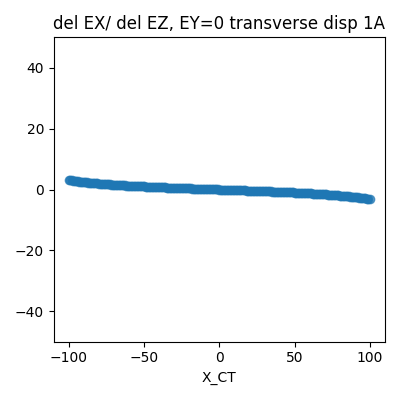
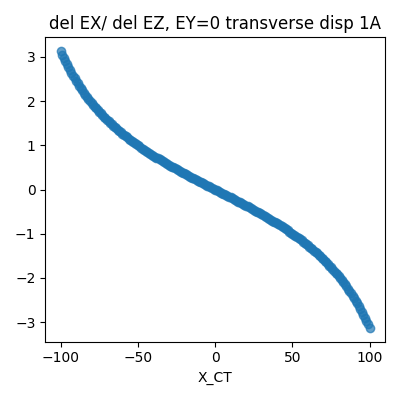
updated certain plots because plot formating and plot limits

diff --git a/E_perp_vs_par_Field.py b/E_perp_vs_par_Field.py
@@ -110,13 +110,15 @@ def main():
     # Create subplots
     fig, ax = plt.subplots(1, 1, figsize=(4, 4))  # 1 row, 1 columns
 
+    plt.rcParams.update({'font.size': 16}) # Increase overall font size
+
     ratio = np.divide(E_med1_a[:,2]-E_med1_b[:,2], E_med1_a[:,0]-E_med1_b[:,0], dtype=np.float64)  # Ensures precision
 
     ax.scatter(R_CT, ratio, alpha=0.7)  # Scatter plot
     ax.set_title('del EX/ del EZ, EY=0, longitudinal disp 1A')
     ax.set_xlabel('X_CT')
 
-    ax.set_ylim(ymin=-50, ymax=50)
+    ax.set_ylim(ymin=-20, ymax=20)
 
     plt.tight_layout()  # Adjust spacing
     plt.show()
@@ -130,7 +132,7 @@ def main():
     ax.set_title('del EZ/ del EX, EY=0, longitudinal disp 1A')
     ax.set_xlabel('X_CT')
 
-    ax.set_ylim(ymin=-50, ymax=50)
+    ax.set_ylim(ymin=-30, ymax=30)
 
     plt.tight_layout()  # Adjust spacing
     plt.show()

diff --git a/E_perp_vs_par_Field_transverse_disp.py b/E_perp_vs_par_Field_transverse_disp.py
@@ -84,7 +84,7 @@ def main():
     ax.set_title('del EX/ del EZ, EY=0 transverse disp 1A')
     ax.set_xlabel('X_CT')
 
-    ax.set_ylim(ymin=-50, ymax=50)
+    #ax.set_ylim(ymin=-50, ymax=50)
 
     plt.tight_layout()  # Adjust spacing
     plt.show()
